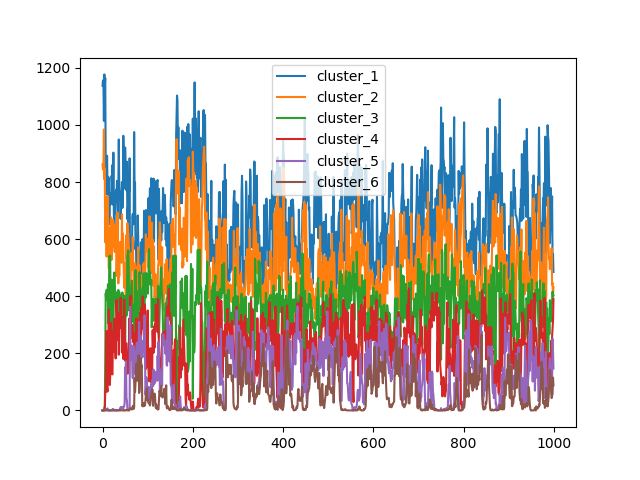
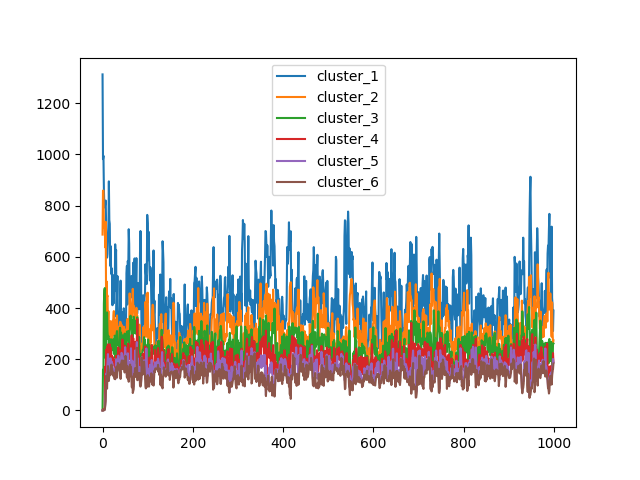
better or not

diff --git a/4/three_models.py b/4/three_models.py
@@ -150,7 +150,7 @@ class Gibbs:
         self.alpha0, self.a0, self.b0 = alpha0, np.float64(a0), np.float64(b0)
         self.alpha_t, self.a_t, self.b_t = np.repeat(self.alpha0, K), np.repeat(self.a0, K), np.repeat(self.b0, K)
 
-        self.c = np.zeros(self.N).astype(np.float64)
+        self.c = np.zeros(self.N).astype(np.int16)
         theta, phi = np.random.rand(K), np.random.rand(self.N * K).reshape([self.N, K])
         self.theta, self.phi = np.exp(theta) / np.sum(np.exp(theta)), np.exp(phi) / np.sum(np.exp(phi), axis=1)[:, None]
 
@@ -164,15 +164,16 @@ class Gibbs:
             x_theta = self.calculate_p_x()
             num_unique = len(unique)
             self.phi[:, :num_unique] = x_theta[:, :num_unique] * counts / (self.alpha0 + self.N - 1)
-            self.phi[:, num_unique] = (self.alpha0 / (self.alpha0 + self.N - 1)) * gamma(
-                self.X + self.a0) * gamma(np.float64(20) - self.X + self.b0) / gamma(
-                self.a0 + np.float64(20) + self.b0
-            )
+            if num_unique < self.K:
+                self.phi[:, num_unique] = (self.alpha0 / (self.alpha0 + self.N - 1)) * gamma(
+                    self.X + self.a0) * gamma(np.float64(20) - self.X + self.b0) / gamma(
+                    self.a0 + np.float64(20) + self.b0
+                ) * comb(20, self.X)
 
-            # confirm that all the others to 0
-            self.phi[:, num_unique + 1:] = np.zeros_like(self.phi[:, num_unique + 1:])
+                # confirm that all the others to 0
+                self.phi[:, num_unique + 1:] = np.zeros_like(self.phi[:, num_unique + 1:])
             self.phi = self.phi / np.sum(self.phi, axis=1)[:, None]
-            self.c = np.argmax(np.array([np.random.multinomial(1, phi_i) for phi_i in self.phi]), axis=1)
+            self.c = np.array([np.random.choice(np.arange(self.K), 1, p=phi_i) for phi_i in self.phi])
 
             # record clusters with n
             unique, counts = np.unique(self.c, return_counts=True)
@@ -243,11 +244,11 @@ if __name__ == '__main__':
     for i, cluster in enumerate(clusters):
         plt.plot(np.arange(t), cluster, label="cluster_{}".format(i+1))
     plt.legend()
-    plt.savefig("3_b")
+    # plt.savefig("3_b")
     plt.show()
     plt.title("number of clusters")
     plt.plot(np.arange(t), num)
-    plt.savefig("3_c")
+    # plt.savefig("3_c")
     plt.show()
 
 
